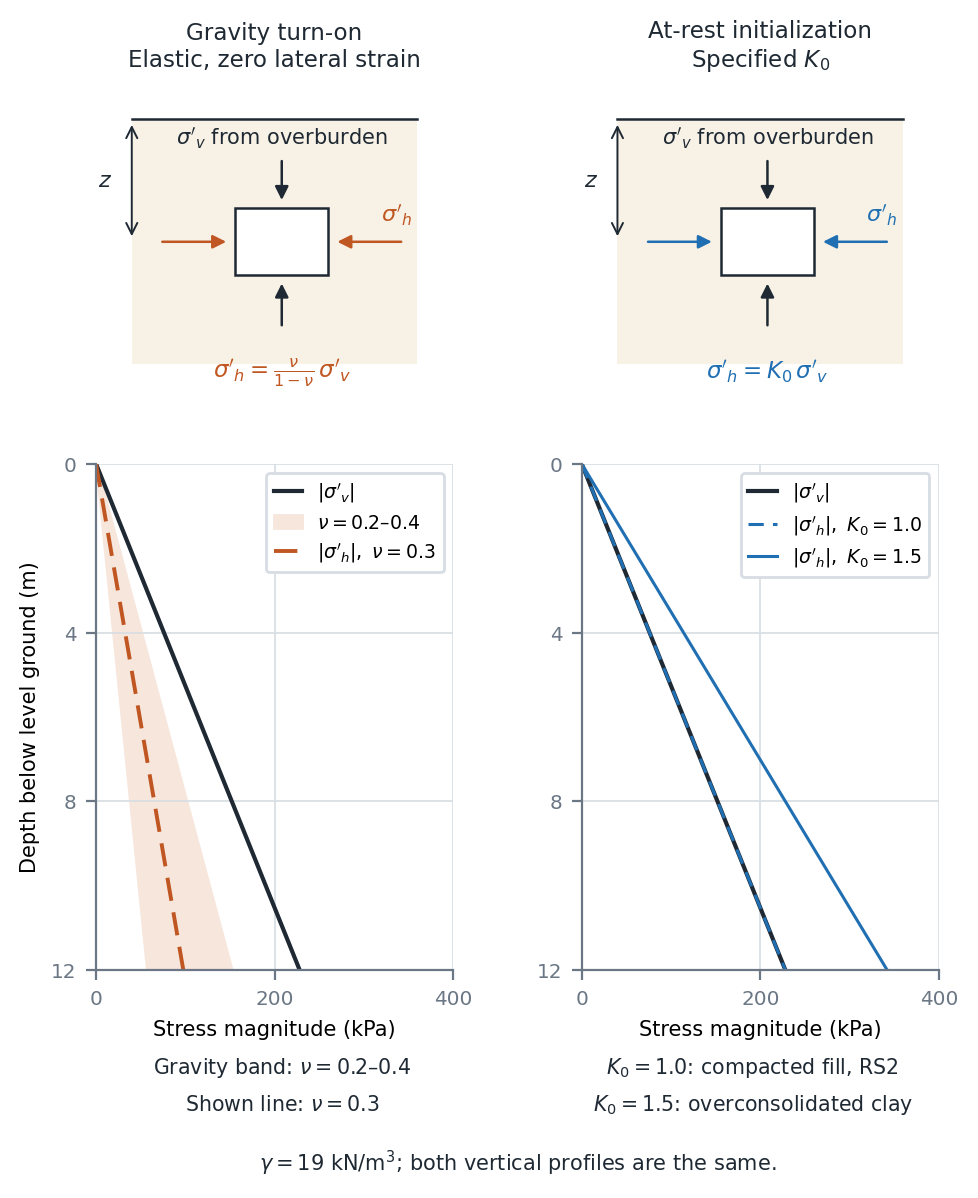
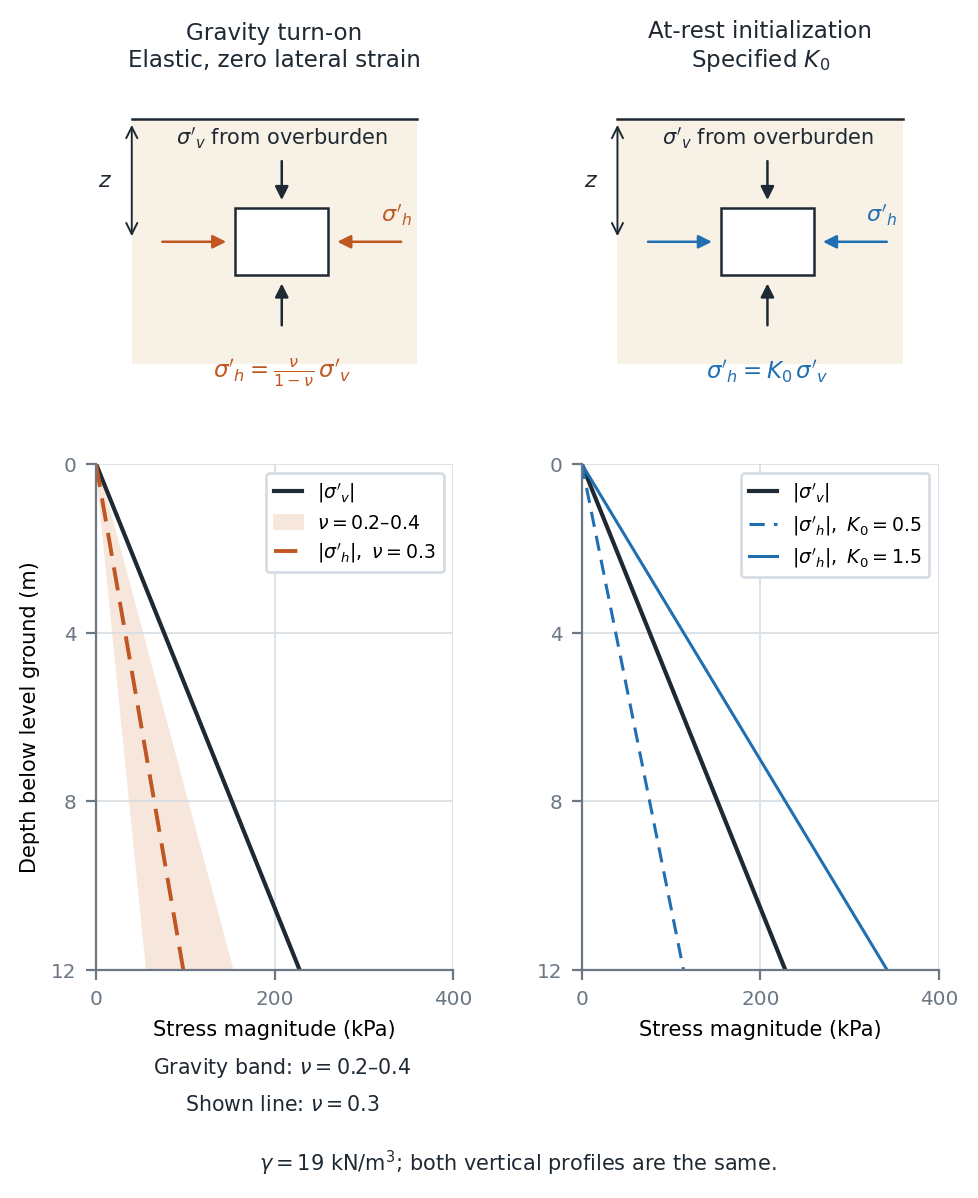
Owner review 19: show at-rest stresses below and above the vertical profile

diff --git a/tools/make_fem_overview_figures.py b/tools/make_fem_overview_figures.py
@@ -289,9 +289,7 @@ def fig_k0_initial():
             ax.plot(0.3 / 0.7 * sv, z, color=C_ACCENT2, linewidth=1.4,
                     linestyle=(0, (6, 3)), label=r"$|\sigma'_h|,\ \nu=0.3$")
         else:
-            # K0=1 coincides with the vertical profile: blue dashes leave the
-            # black vertical-stress line visible between them.
-            for k0, style in ((1.0, (0, (5, 3))), (1.5, "solid")):
+            for k0, style in ((0.5, (0, (5, 3))), (1.5, "solid")):
                 ax.plot(k0 * sv, z, color=C_ACCENT, linewidth=1.1, linestyle=style,
                         label=rf"$|\sigma'_h|,\ K_0={k0:.1f}$")
         ax.set_xlim(0, 400)
@@ -309,10 +307,6 @@ def fig_k0_initial():
     fig.text(0.31, 0.105, r"Gravity band: $\nu=0.2$–$0.4$",
              ha="center", fontsize=7.4, color=C_INK)
     fig.text(0.31, 0.075, r"Shown line: $\nu=0.3$",
-             ha="center", fontsize=7.4, color=C_INK)
-    fig.text(0.79, 0.105, "$K_0=1.0$: compacted fill, RS2",
-             ha="center", fontsize=7.4, color=C_INK)
-    fig.text(0.79, 0.075, "$K_0=1.5$: overconsolidated clay",
              ha="center", fontsize=7.4, color=C_INK)
     fig.text(0.55, 0.025, r"$\gamma=19$ kN/m$^3$; both vertical profiles are the same.",
              ha="center", fontsize=7.5, color=C_INK)

diff --git a/docs/fem/overview.md b/docs/fem/overview.md
@@ -471,9 +471,8 @@ for each convention:
 
 The illustration is a uniform, dry level-ground column; the profiles show compression magnitudes.
 
-The vertical profiles are identical. The shown at-rest profiles give larger horizontal compression
-than the gravity-turn-on profile; the shaded band shows how the gravity result changes with
-Poisson's ratio.
+Normally consolidated soil lies below the vertical-stress line, overconsolidated soil may lie
+above it, and at $K_0 = 1$ the two coincide.
 
 On level ground with no horizontal variation, a fixed base and horizontally restrained sides,
 the $K_0$ field balances self weight for any $K_0$: the integral satisfies vertical equilibrium,
